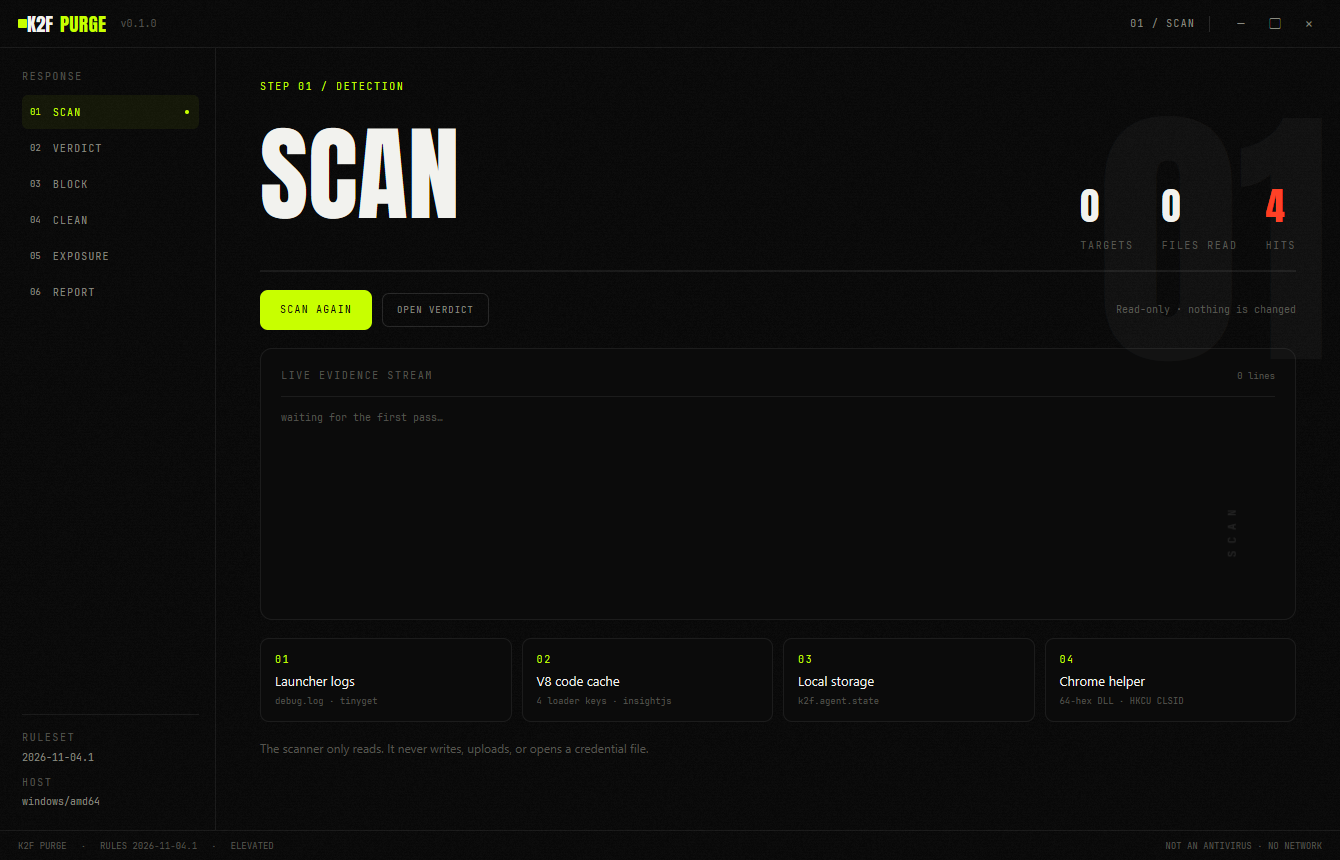
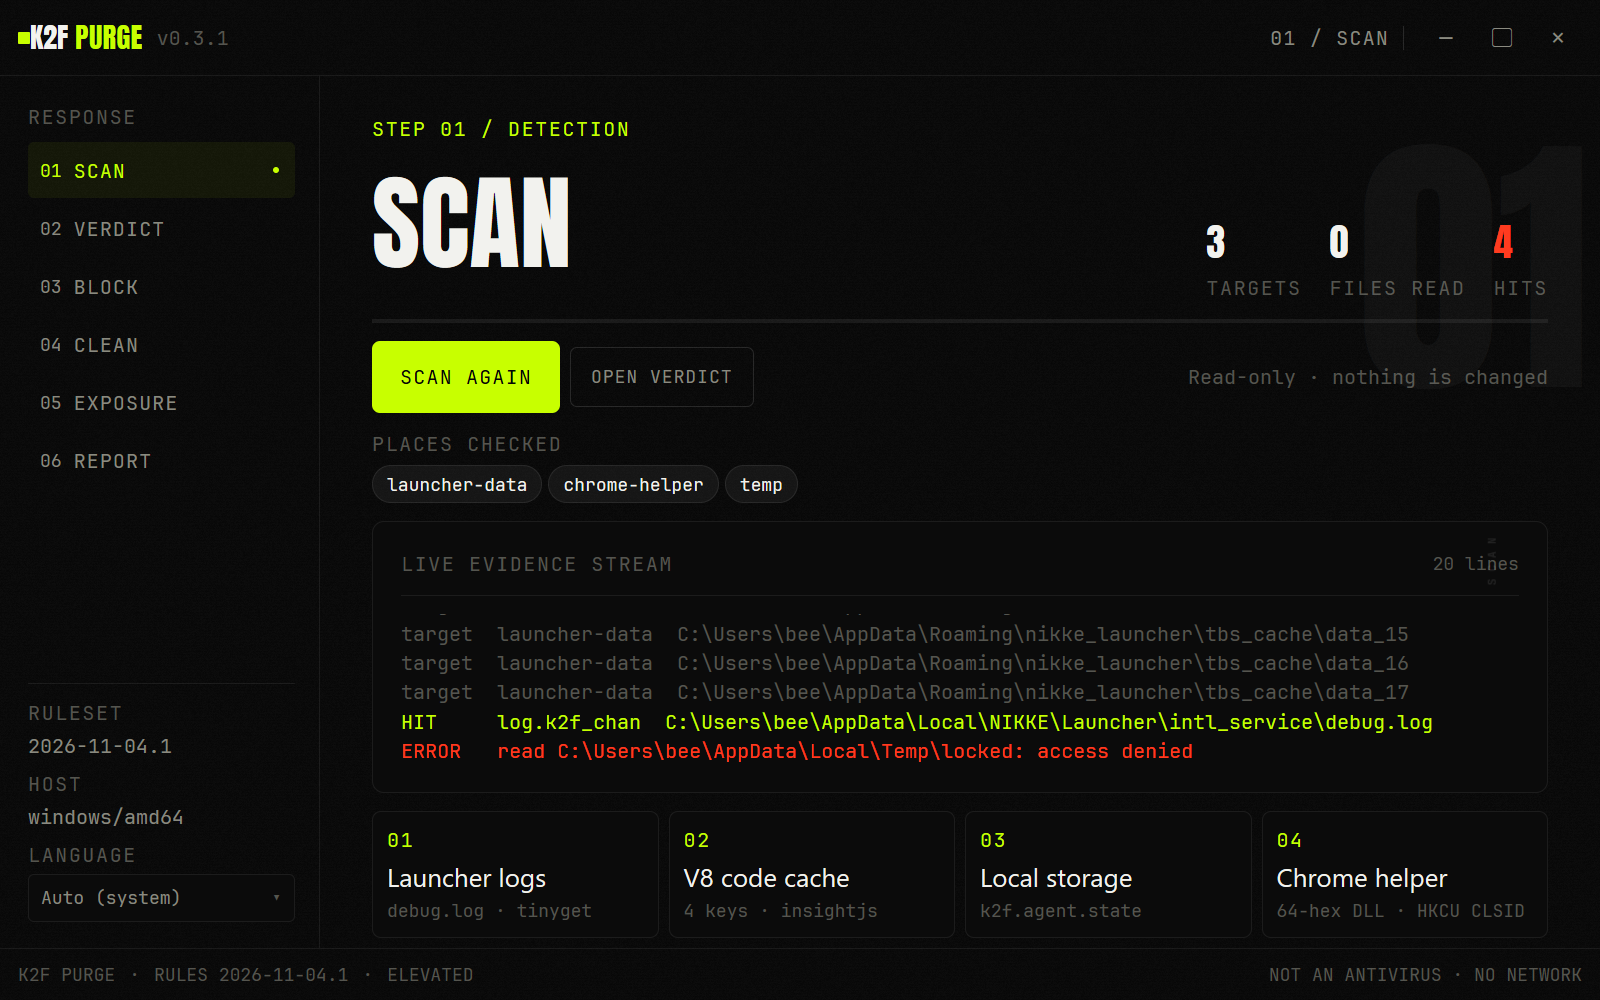
docs: refresh README screenshots for 0.3.1
Regenerate the four README images from the preview harness at the current default window size, and keep the fixture's temp launcher path out of the rendered pages.

diff --git a/appui/preview_test.go b/appui/preview_test.go
@@ -66,7 +66,9 @@ func previewApp(t *testing.T, svc *service.Service, now time.Time) *App {
 		LauncherPath: launcher,
 		TBSExe:       filepath.Join(launcher, "intl_service", "tbs_browser.exe"),
 	}
-	a.LauncherDraft = launcher
+	// The temp fixture folder is for validation only; never show its path in
+	// a rendered preview or screenshot.
+	a.LauncherPath, a.LauncherDraft = "", ""
 	a.BlockPlan.BlockTBSBrowser = true
 	a.Scan = &model.ScanResult{
 		Verdict:    model.VerdictConfirmed,
